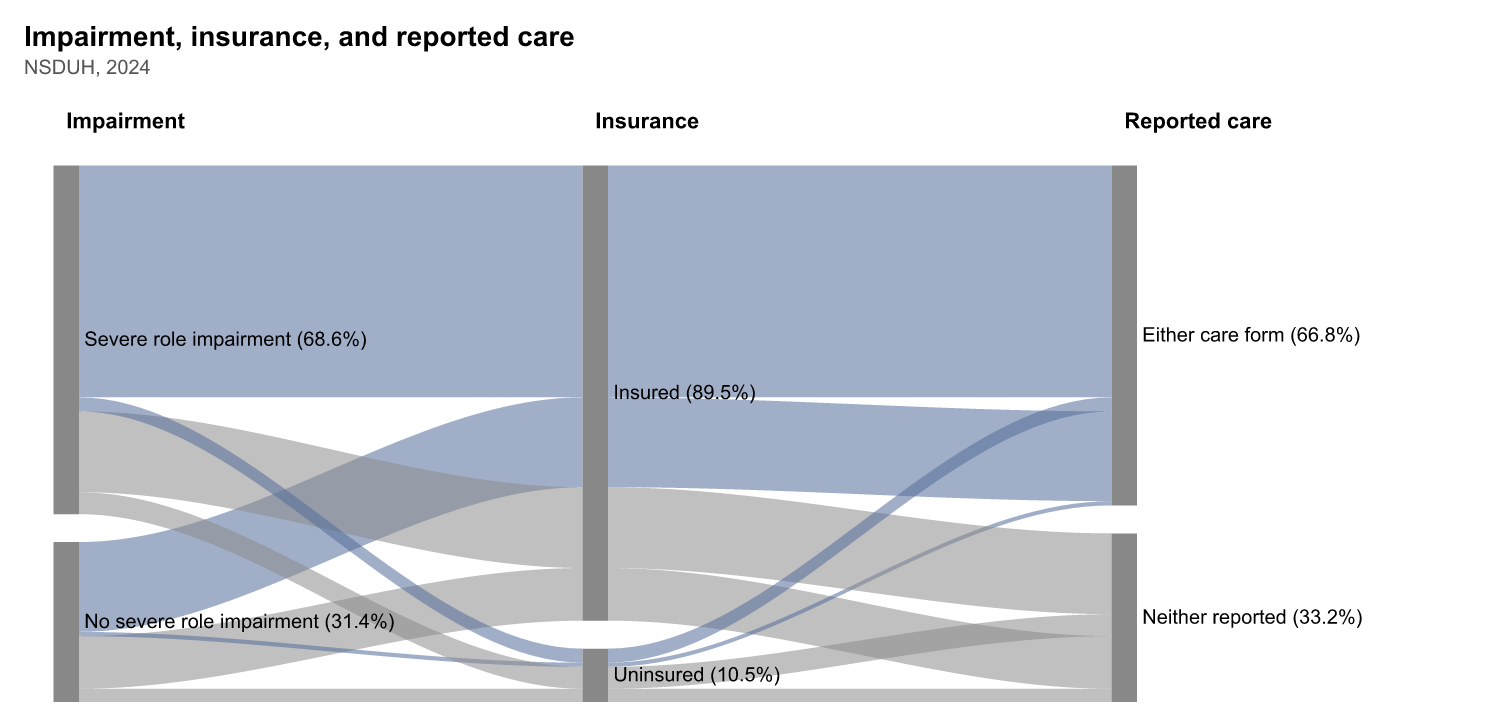
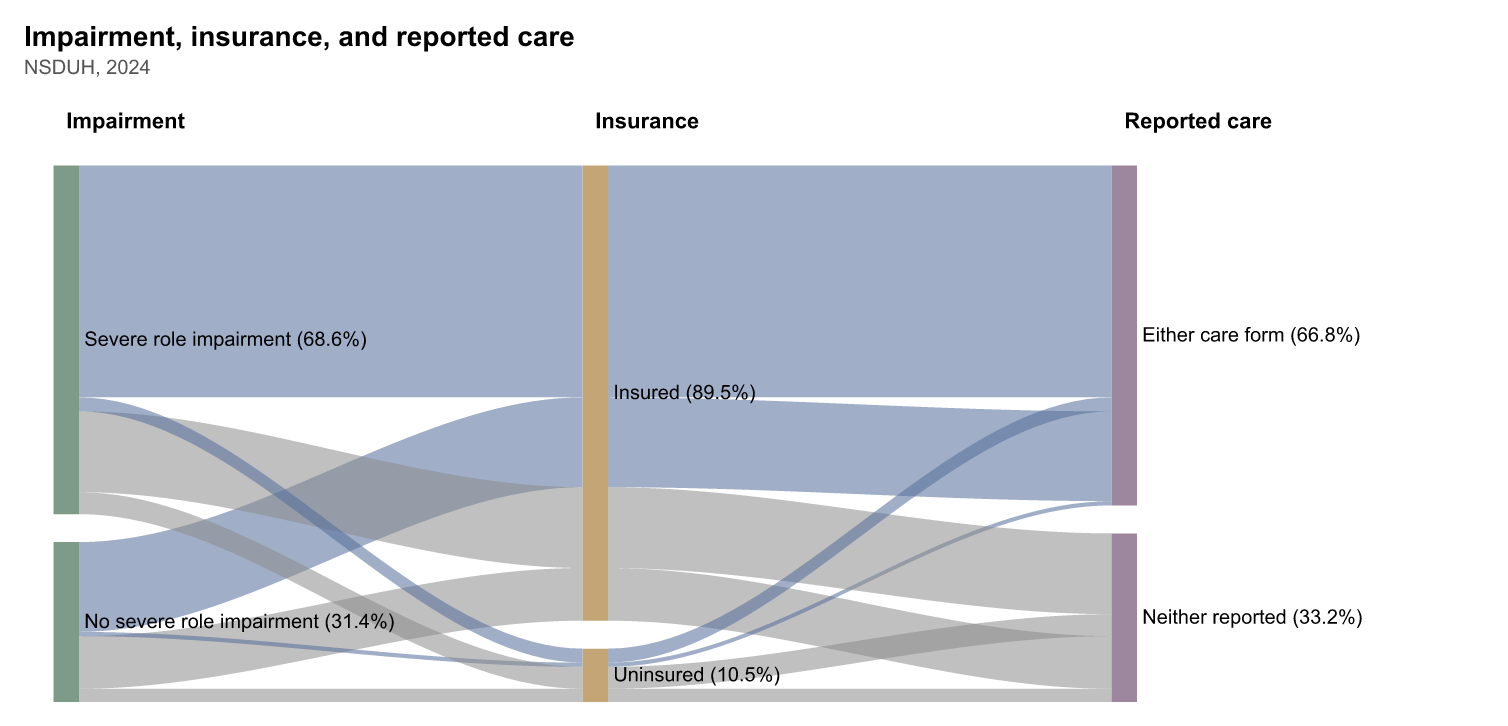
Distinguish the experiment columns with muted colors

Changed region(s): [[0.374, 0.2121, 0.4052, 0.9697]]

diff --git a/static-viz-project/milestone2_draft/static-draft.md b/static-viz-project/milestone2_draft/static-draft.md
@@ -82,7 +82,7 @@ Among adults with depression and severe impairment, 61.1% of uninsured adults re
 
 ![Impairment, insurance, and care](figures/11_impairment_insurance_care_alluvial.png)
 
-The ribbons connect impairment, insurance, and reported care categories within the same analysis population. Their widths show population shares rather than within-group rates or a treatment sequence; I am keeping this as an optional experiment because the crossing ribbons may be harder to read than the preceding insurance comparison.
+Sage, ochre, and plum bars distinguish impairment, insurance, and reported care; blue and gray ribbons connect their categories. Their widths show population shares rather than within-group rates or a treatment sequence; I am keeping this as an optional experiment because the crossing ribbons may be harder to read than the preceding insurance comparison.
 
 ## What form do you envision your final narrative taking? (e.g. An article incorporating the images? A poster? An infographic?)
 
